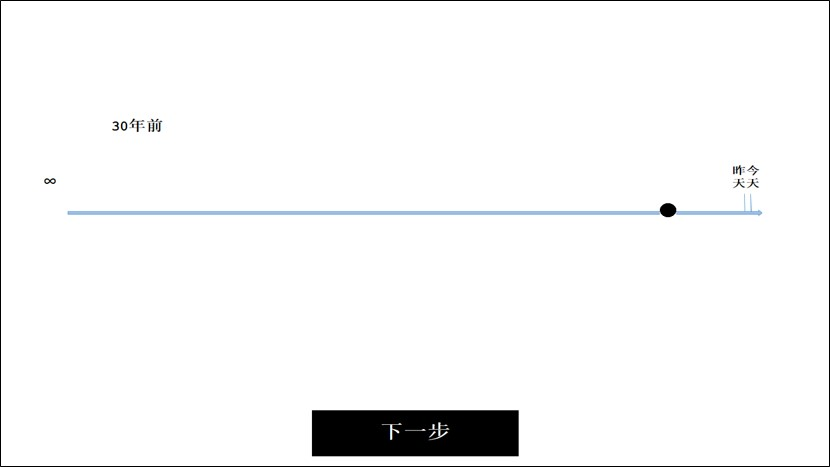
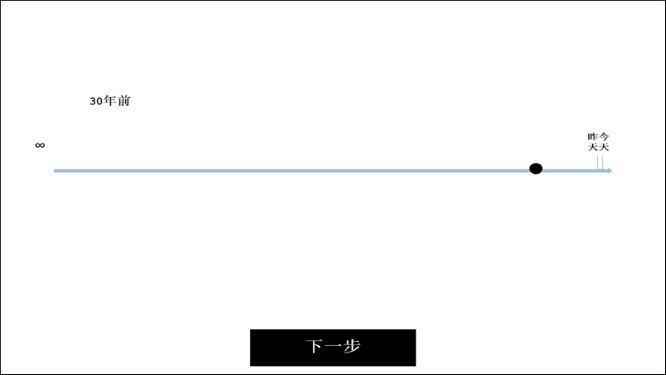
2020/06/20    0:01:41.65 AutoCommit.bat by YuenTsheh

diff --git a/_posts/someThinkings/2019-08-10-用Psychtoolbox实现数轴范式.md b/_posts/someThinkings/2019-08-10-用Psychtoolbox实现数轴范式.md
@@ -1,6 +1,7 @@
 ---
 tags: 
 - psychtoolbox
+header-img: "img/2019-08-10-01.jpg"
 ---
 **数轴范式**是`解释水平理论(construal level theory)`常用的范式之一，一般用于测量个体对时间、社会关系等抽象概念的距离知觉。其常见形式是给出一段数轴并说明其性质及含义(比如数轴有限长或无限长，代表一段有限时间或无限时间)，要求被试通过移动数轴上的点以标定实验材料在被试心中的长度。
 
@@ -76,4 +77,4 @@ clear imgs;
 
 上述代码的核心是采用`GetMouse`函数实时读取鼠标指针坐标，以此为基础采用`Screen('FillOval')`更新圆点位置。最后实现的效果如下：
 
-<img src="../../../../img/2019-08-10-02.jpg" width="100" height="150"> 
+<img src="../../../../img/2019-08-10-02.jpg" width="800" height="450"> 
